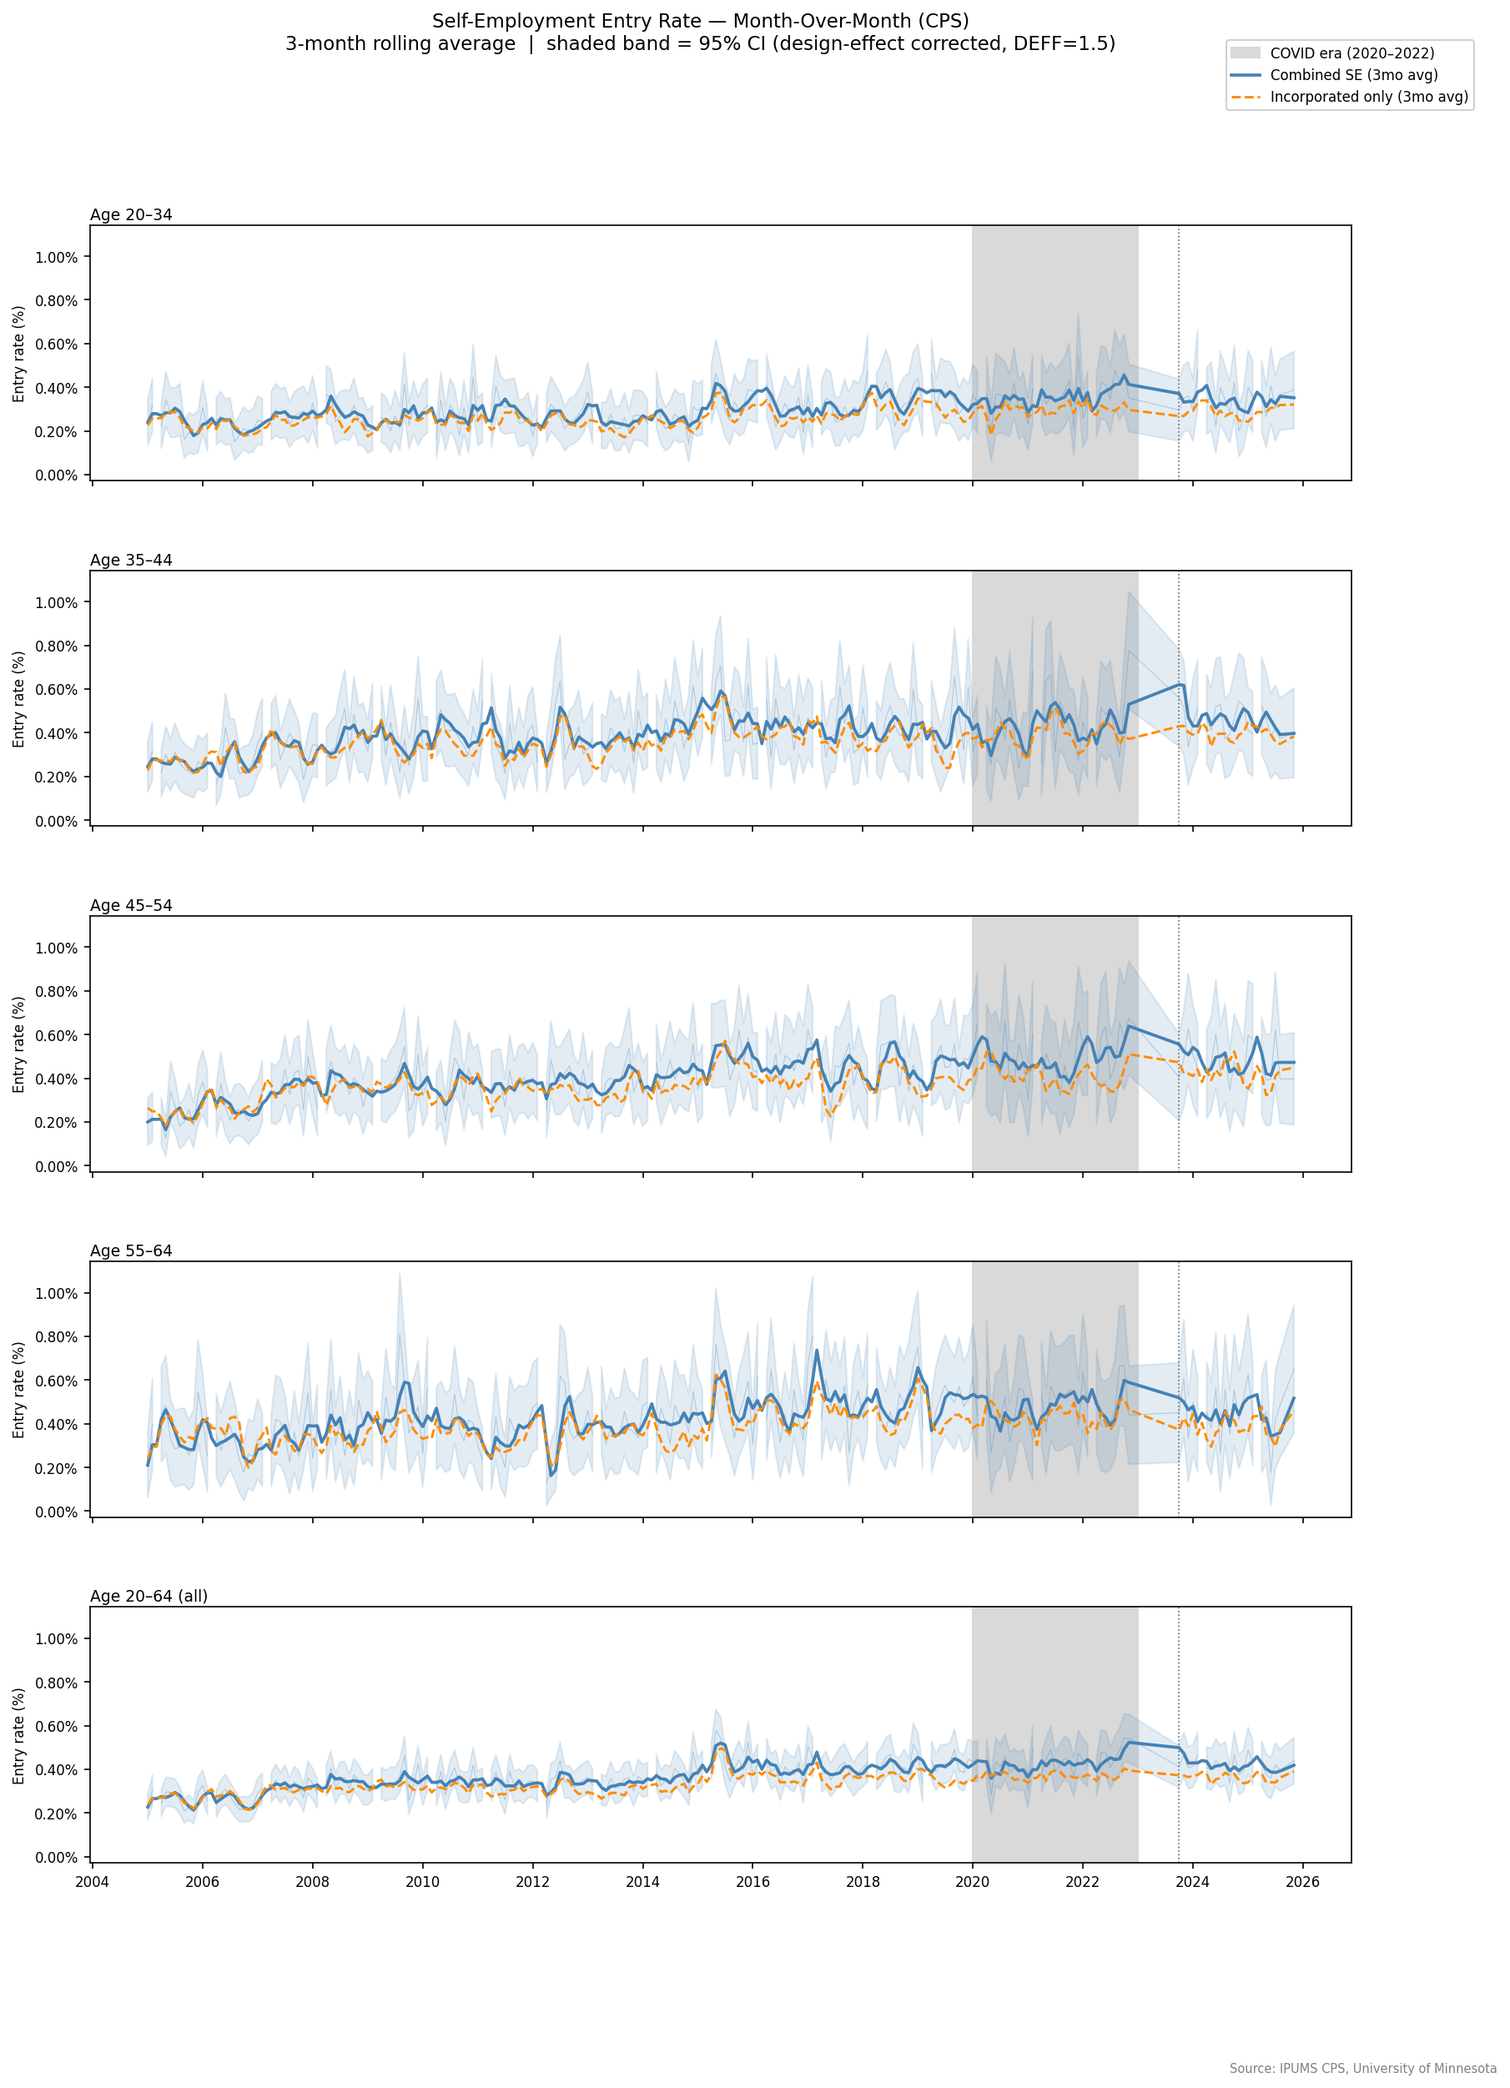
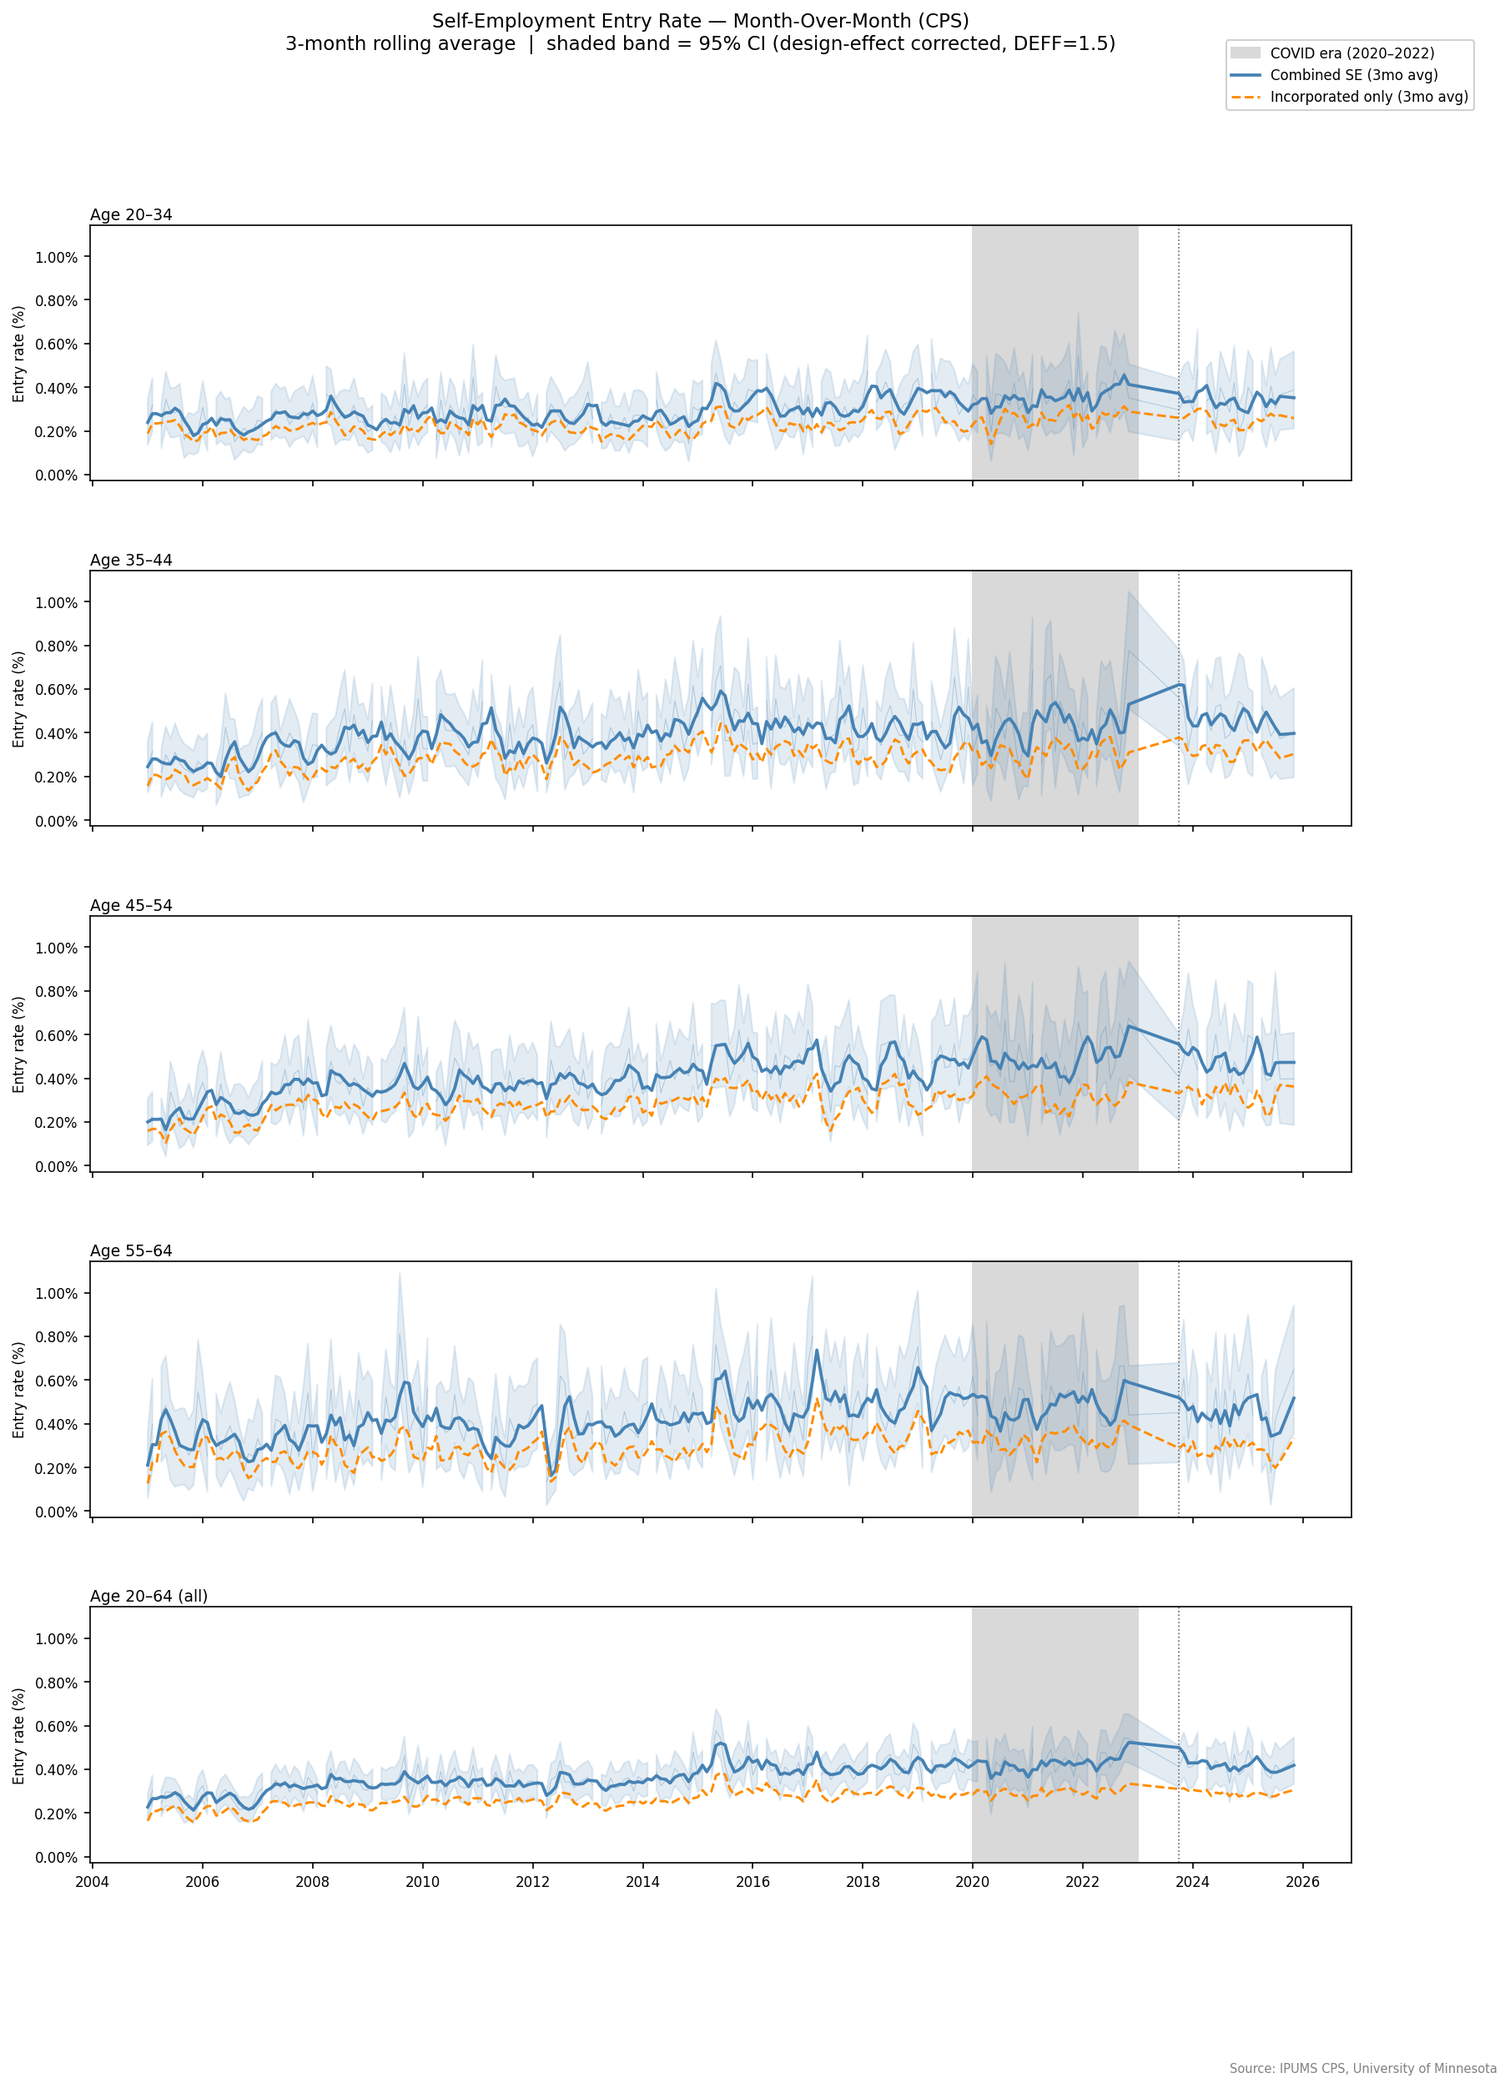
Fix moderate-to-high severity issues and run all robustness checks
Code fixes:
- src/match.py: add CPSIDP deduplication before T0/T1 join (prevents cross-joins
  from duplicate CPSIDP records in a single survey month)
- src/rates.py: switch entry_rate_inc to strict incorporated definition
  (~se_t0 & se_inc_t1 with at_risk denominator), excluding uninc→inc restructurings
- src/rates.py: add Newey-West HAC SD to compute_baseline_stats; z-scores now use
  NW-corrected baseline_nw_sd (slightly wider than naive SD for AR(1) series)
- src/rates.py: change above/below_baseline threshold from 1 SD to 1.96 (95%);
  add above_baseline_nw using NW-corrected z-scores
- index.html: add UHRSWORKT caveat to Figure 4 caption and methodology card;
  update incorporated definition description; qualify opportunity/necessity claim
  to note small denominator on unemployment→SE pathway and that YOY rates are at
  historical norms; update CI/z-score methodology description
- scripts/04_analysis.py: surface z_score_nw and above_baseline_nw in summaries
- scripts/robustness/10_cps_redesign.py: remove stray scipy import

Robustness outputs (all 10 checks generate figures/robustness/*.png):
- Check 01 (baseline): all four windows give nearly identical 20-34 means (1.92–2.02%)
- Check 02 (DEFF): most recent quarter CI half-width 0.66–1.05 pp across DEFF 1–2.5
- Check 03 (age cutoff): 20-29 shows +6.8% above baseline; canonical 20-34 at -2.0%
- Check 04 (hours filter): UHRSWORKT absent; documented vs Kauffman published NER
[…]

diff --git a/index.html b/index.html
@@ -470,10 +470,16 @@
     <p>
       For the youngest cohort, the unemployment→SE pathway (crimson) spiked
       sharply during the COVID lockdowns and then fully reverted to baseline.
-      The employment→SE pathway (steelblue) has been running modestly but
-      persistently above 100 in the recent period — meaning young workers with jobs
-      are choosing self-employment at a slightly elevated rate relative to history.
-      This is the signature of opportunity entrepreneurship.
+      The employment→SE pathway (steelblue) has been running modestly above 100
+      in the recent period — consistent with the signature of opportunity
+      entrepreneurship (employed workers choosing self-employment). Note that
+      the unemployment→SE pathway has a small denominator (few unemployed workers
+      per rotation cohort per quarter), so its reversion to baseline should be
+      interpreted with caution. Additionally, the year-over-year entry rate —
+      the most durable measure of new business formation — is broadly at historical
+      norms for 20–34, suggesting that while the employment→SE transition is
+      slightly elevated, this has not yet translated into a dramatic surge in
+      lasting new businesses.
     </p>
 
     <h3>Age 55–64: The Opposite Pattern</h3>
@@ -481,7 +487,7 @@
       Older workers show the reverse: the unemployment→SE index remains notably
       elevated post-COVID while the employment→SE channel has mean-reverted.
       This is consistent with a necessity story — older workers displaced from jobs
-      and entering self-employment as an alternative to continued unemployment.
+      entering self-employment as an alternative to continued unemployment.
     </p>
 
     <h3>Ages 35–54: Broad Mean Reversion</h3>
@@ -575,11 +581,17 @@
            alt="Year-over-year SE entry rates by age group with 95% confidence intervals">
       <figcaption>
         <strong>Figure 4. Self-employment entry rate — year-over-year method (CPS, MISH 4→8).</strong>
-        Entry rate = share of non-SE workers at observation 1 who are SE approximately
+        Entry rate = share of employed non-SE workers at observation 1 who are SE approximately
         12 months later, weighted by IPUMS linked year-over-year weight (LNKFW1YWT).
+        Incorporated-only rate uses a strict definition: was not SE at all at T₀, is
+        incorporated SE at T₁ (excludes unincorporated→incorporated restructurings).
         Shaded band = 95% CI with design-effect correction (DEFF = 1.5) for CPS
         clustered sampling. COVID era (2020–2022) shaded gray.
-        Methodology follows Kauffman Foundation New Entrepreneur Rate.
+        <strong>Note:</strong> The Kauffman Foundation's usual-hours-worked filter
+        (UHRSWORKT ≥ 15 hrs/week) could not be applied; this variable was absent from
+        the IPUMS extract. Rates therefore include marginal SE workers and may be
+        modestly overstated relative to published Kauffman NER values.
+        Methodology otherwise follows Kauffman Foundation New Entrepreneur Rate.
         Source: U.S. Census Bureau &amp; BLS, Current Population Survey;
         IPUMS CPS, University of Minnesota.
       </figcaption>
@@ -626,9 +638,12 @@
       </div>
       <div class="method-card">
         <h4>Entry rate</h4>
-        Follows Kauffman New Entrepreneur Rate: (weighted count of non-SE at T₀
+        Follows Kauffman New Entrepreneur Rate: (weighted count of employed non-SE at T₀
         who are SE at T₁) ÷ (weighted count of employed non-SE at T₀).
         YOY weight: LNKFW1YWT. MOM weight: WTFINL at T₀.
+        Incorporated-only entry rate uses strict definition (not SE at all at T₀),
+        excluding unincorporated→incorporated legal restructurings.
+        Hours-worked filter (≥15 hrs/week) not applied; UHRSWORKT absent from extract.
       </div>
       <div class="method-card">
         <h4>Baseline period</h4>
@@ -641,6 +656,9 @@
         Normal approximation with design-effect scalar DEFF = 1.5, applied as
         SE = √(DEFF · p(1−p)/n). Conservative scalar for CPS stratified
         cluster sampling; PSU/stratum variables not in extract.
+        "Above baseline" flags use a 95% threshold (|z| &gt; 1.96) against the
+        2005–2019 seasonal mean; Newey-West autocorrelation-corrected z-scores
+        also computed for inferential comparisons.
       </div>
     </div>
 

diff --git a/src/rates.py b/src/rates.py
@@ -3,6 +3,7 @@ Entry rate and persistence rate computation for MOM and YOY matched pairs.
 """
 
 import logging
+import numpy as np
 import pandas as pd
 
 log = logging.getLogger(__name__)
@@ -23,6 +24,31 @@ BASELINE_YEARS = range(2005, 2020)
 BASELINE_YEARS_ROBUST = range(2010, 2020)
 COVID_YEARS = range(2020, 2023)
 RECENT_START = ("2023", "10")  # October 2023
+
+
+def _newey_west_var_of_mean(series: np.ndarray) -> float:
+    """
+    Newey-West HAC variance estimate for the mean of `series`.
+
+    Accounts for autocorrelation in a time series when estimating the
+    precision of the mean. Returns Var(mean), not SD or SE.
+
+    Bandwidth L = floor(T^(1/3)) per Newey & West (1987) recommendation.
+    Falls back to classical variance / n for very short series (T < 4).
+    """
+    x = np.asarray(series, dtype=float)
+    x = x[~np.isnan(x)]
+    T = len(x)
+    if T < 4:
+        return float(np.var(x, ddof=1)) / max(T, 1)
+    bandwidth = max(1, int(np.floor(T ** (1 / 3))))
+    e = x - x.mean()
+    s0 = np.dot(e, e) / T
+    nw_sum = s0
+    for k in range(1, bandwidth + 1):
+        sk = np.dot(e[k:], e[:-k]) / T
+        nw_sum += 2 * (1.0 - k / (bandwidth + 1)) * sk
+    return max(nw_sum, 0.0) / T
 
 
 def _entry_rate(df: pd.DataFrame, entrant_col: str, at_risk_col: str, weight_col: str) -> float:
@@ -53,7 +79,10 @@ def compute_mom_rates(df: pd.DataFrame) -> pd.DataFrame:
 
         for period, grp in subset.groupby("period"):
             rate = _entry_rate(grp, "new_entrant", "at_risk", "WTFINL_t0")
-            rate_inc = _entry_rate(grp, "new_entrant_inc", "at_risk_inc", "WTFINL_t0")
+            # Use strict incorporated definition: ~se_t0 & se_inc_t1 with at_risk
+            # denominator (employed non-SE). Excludes uninc→inc restructurings so
+            # entry_rate_inc measures pure new incorporated business formation.
+            rate_inc = _entry_rate(grp, "new_entrant_inc_strict", "at_risk", "WTFINL_t0")
             n_at_risk = grp["at_risk"].sum()
             records.append({
                 "period": period,
@@ -109,7 +138,8 @@ def compute_yoy_rates(df: pd.DataFrame) -> pd.DataFrame:
 
         for quarter, grp in subset.groupby("quarter"):
             rate = _entry_rate(grp, "new_entrant", "at_risk", "weight")
-            rate_inc = _entry_rate(grp, "new_entrant_inc", "at_risk_inc", "weight")
+            # Strict incorporated definition: see compute_mom_rates for rationale.
+            rate_inc = _entry_rate(grp, "new_entrant_inc_strict", "at_risk", "weight")
             n_at_risk = grp["at_risk"].sum()
             records.append({
                 "quarter": quarter,
@@ -344,6 +374,44 @@ def compute_baseline_stats(
         .reset_index()
     )
 
+    # Newey-West HAC SD: corrects for autocorrelation in the baseline series so
+    # that z-scores for a single new observation reflect the true spread of the
+    # process (not just the precision of the estimated mean).
+    #
+    # For an AR(1) process with ρ > 0, positive autocorrelation means consecutive
+    # observations are more similar than independent draws — the effective sample
+    # size is reduced, and the estimated SD of the distribution is upward-biased.
+    # NW corrects this: baseline_nw_sd = √(nw_sum) where
+    #   nw_sum = γ_0 + 2 Σ_{k=1}^{L} w_k γ_k  (NW long-run variance)
+    # This is LARGER than baseline_sd for ρ > 0, producing SMALLER (conservative)
+    # z-scores. The SE of the mean baseline_nw_se = √(nw_sum/T) is also stored
+    # for use in mean-comparison tests (e.g., is the mean of several recent
+    # quarters statistically different from the baseline mean?).
+    def _nw_sd(s):
+        """NW long-run SD for a single-observation z-score (wider than naive SD)."""
+        vals = s.values
+        nw_var_mean = _newey_west_var_of_mean(vals)
+        n = len(vals[~np.isnan(vals)])
+        nw_sum = nw_var_mean * max(n, 1)  # long-run variance = Var_of_mean × T
+        return float(np.sqrt(nw_sum))
+
+    def _nw_se(s):
+        """NW SE of the historical mean (for mean-comparison tests)."""
+        return float(np.sqrt(_newey_west_var_of_mean(s.values)))
+
+    nw_sd_series = (
+        baseline.groupby(group_cols)[rate_col]
+        .apply(_nw_sd)
+        .reset_index(name="baseline_nw_sd")
+    )
+    nw_se_series = (
+        baseline.groupby(group_cols)[rate_col]
+        .apply(_nw_se)
+        .reset_index(name="baseline_nw_se")
+    )
+    stats = stats.merge(nw_sd_series, on=group_cols, how="left")
+    stats = stats.merge(nw_se_series, on=group_cols, how="left")
+
     # Diagnostic: flag sparse or NaN buckets so March-like gaps are visible
     sparse = stats[(stats["n_obs"] < 5) | stats["baseline_mean"].isna()]
     if not sparse.empty:
@@ -380,8 +448,30 @@ def flag_recent_vs_baseline(
         recent["season"] = recent[period_col].dt.quarter
 
     merged = recent.merge(baseline_stats, on=["age_group", "season"], how="left")
+
+    # z_score: how many SDs of *historical rate variation* above the baseline mean.
+    # This is a descriptive measure of how unusual the period is relative to history;
+    # it does NOT test whether the mean is statistically different from baseline.
     merged["z_score"] = (merged[rate_col] - merged["baseline_mean"]) / merged["baseline_sd"]
-    merged["above_baseline"] = merged["z_score"] > 1
-    merged["below_baseline"] = merged["z_score"] < -1
+
+    # z_score_nw: Newey-West autocorrelation-corrected descriptive z-score.
+    # Uses baseline_nw_sd = √(NW long-run variance) as the denominator.
+    # For positively autocorrelated series (typical), baseline_nw_sd > baseline_sd,
+    # so z_score_nw is SMALLER (more conservative) than z_score. This corrects for
+    # the fact that autocorrelated observations provide less independent information
+    # than i.i.d. draws, so the effective spread of the process is wider.
+    # NOTE: baseline_nw_se (SE of the historical mean) is also available in the merged
+    # frame for mean-comparison tests, but is NOT used here — using SE of the mean as
+    # the denominator for a single new observation yields inflated z-scores (SE << SD).
+    merged["z_score_nw"] = (
+        (merged[rate_col] - merged["baseline_mean"]) / merged["baseline_nw_sd"]
+    )
+
+    # Threshold = 1.96 (95% confidence) for both z-score variants.
+    # Using 1 SD (the prior threshold) yields ~32% false-positive rate under normality.
+    merged["above_baseline"] = merged["z_score"] > 1.96
+    merged["below_baseline"] = merged["z_score"] < -1.96
+    merged["above_baseline_nw"] = merged["z_score_nw"] > 1.96
+    merged["below_baseline_nw"] = merged["z_score_nw"] < -1.96
 
     return merged

diff --git a/scripts/04_analysis.py b/scripts/04_analysis.py
@@ -76,7 +76,8 @@ def main():
     mom_recent_robust.to_parquet(PROCESSED_DIR / "recent_vs_baseline_mom_robust.parquet", index=False)
 
     print("\n--- MOM: Recent period vs. baseline (age 20–34) ---")
-    display_cols = ["period", "entry_rate_3mo", "entry_rate_inc_3mo", "baseline_mean", "z_score", "above_baseline"]
+    display_cols = ["period", "entry_rate_3mo", "entry_rate_inc_3mo", "baseline_mean",
+                    "z_score", "above_baseline", "z_score_nw", "above_baseline_nw"]
     subset = mom_recent[mom_recent["age_group"] == "20_to_34"][display_cols]
     print(subset.to_string(index=False))
 
@@ -100,7 +101,8 @@ def main():
     yoy_recent_robust.to_parquet(PROCESSED_DIR / "recent_vs_baseline_yoy_robust.parquet", index=False)
 
     print("\n--- YOY: Recent period vs. baseline (age 20–34) ---")
-    display_cols = ["quarter", "entry_rate", "entry_rate_inc", "baseline_mean", "z_score", "above_baseline"]
+    display_cols = ["quarter", "entry_rate", "entry_rate_inc", "baseline_mean",
+                    "z_score", "above_baseline", "z_score_nw", "above_baseline_nw"]
     subset = yoy_recent[yoy_recent["age_group"] == "20_to_34"][display_cols]
     print(subset.to_string(index=False))
 

diff --git a/src/match.py b/src/match.py
@@ -22,7 +22,11 @@ def build_mom_pairs(lf: pl.LazyFrame) -> pl.DataFrame:
       - T1 is exactly one calendar month after T0 (prevents cross-year spurious matches)
     """
     frames = []
-    lf = lf.filter(pl.col("CPSIDP") != 0)
+    # Deduplicate: keep one record per (CPSIDP, YEAR, MONTH, MISH) to prevent
+    # cross-joins if any CPSIDP appears more than once in a survey month.
+    lf = lf.filter(pl.col("CPSIDP") != 0).unique(
+        subset=["CPSIDP", "YEAR", "MONTH", "MISH"], keep="first"
+    )
 
     for mish_t0, mish_t1 in MOM_PAIRS:
         t0 = lf.filter(pl.col("MISH") == mish_t0)
@@ -56,7 +60,10 @@ def build_yoy_pairs(lf: pl.LazyFrame) -> pl.DataFrame:
       - T1 is the same calendar month exactly one year after T0
     Expect ~10-15% attrition from movers and non-response.
     """
-    lf = lf.filter(pl.col("CPSIDP") != 0)
+    # Deduplicate before joining (same reason as MOM: prevent cross-joins).
+    lf = lf.filter(pl.col("CPSIDP") != 0).unique(
+        subset=["CPSIDP", "YEAR", "MONTH", "MISH"], keep="first"
+    )
 
     t0 = lf.filter(pl.col("MISH") == 4)
     t1 = lf.filter(pl.col("MISH") == 8)

diff --git a/scripts/robustness/10_cps_redesign.py b/scripts/robustness/10_cps_redesign.py
@@ -68,10 +68,7 @@ def welch_t_test(a, b):
     df = (va/na + vb/nb)**2 / (
         (va/na)**2 / (na - 1) + (vb/nb)**2 / (nb - 1)
     )
-    # Approximate p-value using normal distribution (valid for large df)
-    from scipy.special import btdtr  # noqa: F401
-    # Fall back to normal approximation to avoid scipy dependency
-    # z-score approximation good for df > 30
+    # Normal approximation to p-value; valid when df > 30 (typical here with 10+ years)
     p = 2 * (1 - _normal_cdf(abs(t)))
     return t, p
 
